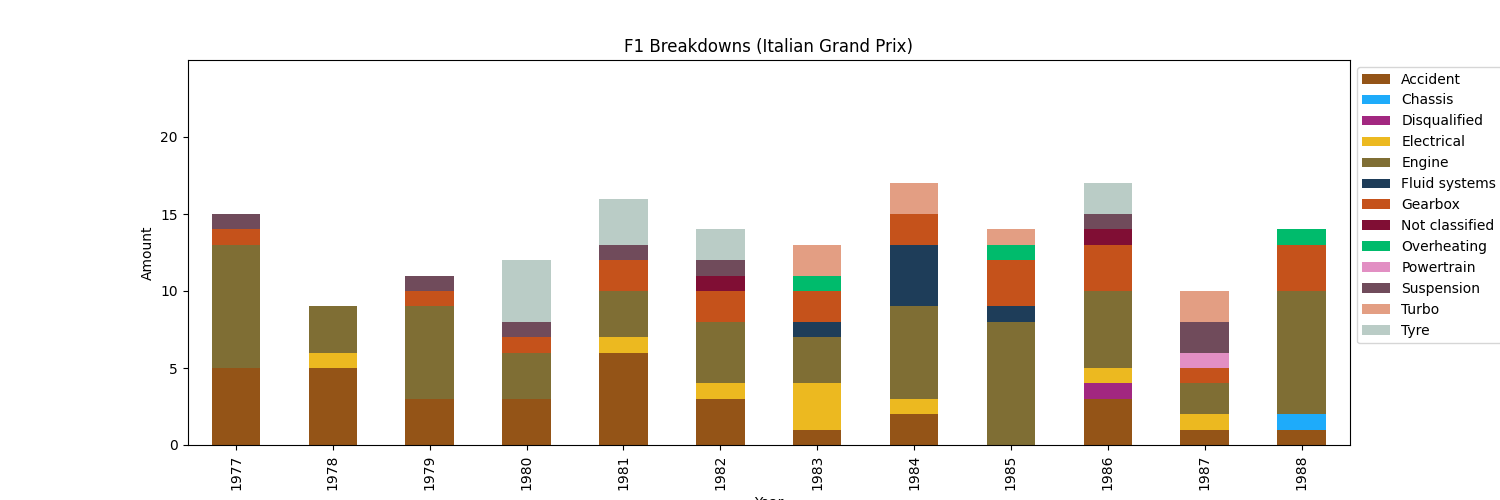
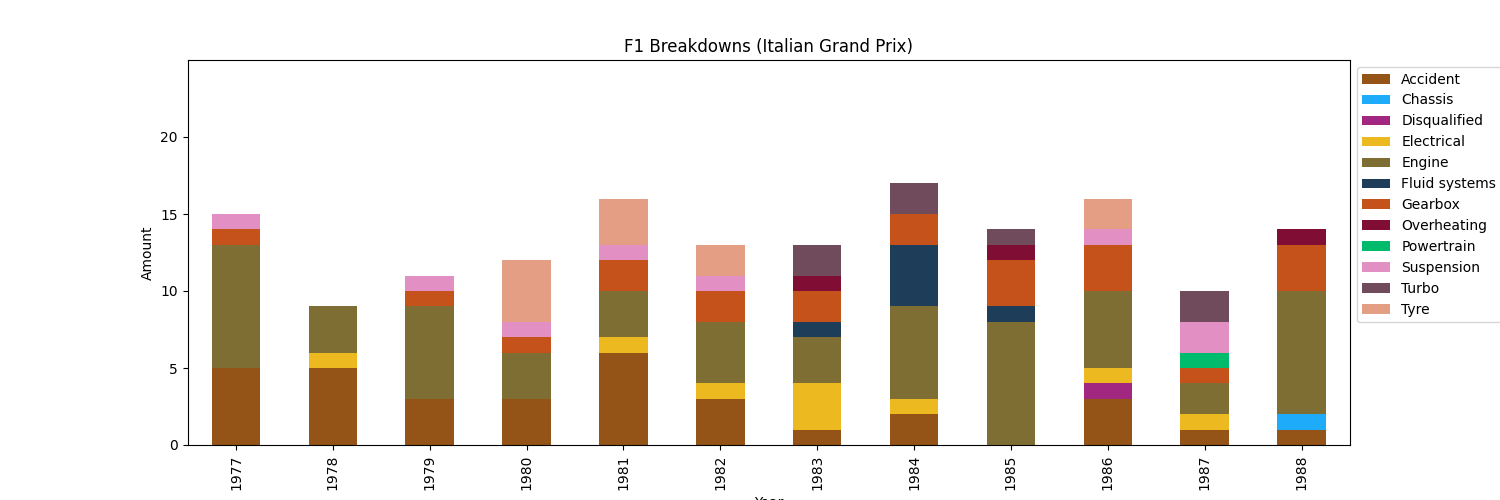
analysis fix

diff --git a/main.py b/main.py
@@ -42,6 +42,7 @@ if 'p' in args:
         if file.endswith('.csv'):
             df_data = pd.read_csv(os.path.join(path,file))
             df_data = df_data[df_data['status'] != 'Finished']
+            df_data = df_data[df_data['status'] != 'Not classified']
             
             # group data by date and status
             df_data_ds = df_data.groupby(['year', 'status']).size().reset_index(name='counts')
@@ -100,6 +101,8 @@ if 'a' in args:
     # drop the finished status rows
     df_turbo = df_turbo[df_turbo['status'] != 'Finished']
     df_hybrid = df_hybrid[df_hybrid['status'] != 'Finished']
+    df_turbo = df_turbo[df_turbo['status'] != 'Not classified']
+    df_hybrid = df_hybrid[df_hybrid['status'] != 'Not classified']
     
     # transform data to have the groups as rows and the years as columns
     df_turbo_sy = df_turbo.groupby(['year', 'status']).size().reset_index(name='counts')
@@ -150,7 +153,7 @@ if 'a' in args:
     plt.clf()
     
     #replace the each year in the year column with a number
-    df_turbo['year'] = df_turbo['year'].replace({1980: 1, 1981: 2, 1982: 3, 1983: 4, 1984: 5, 1985: 6, 1986: 7, 1987: 8, 1988: 9, 1989: 10})
+    df_turbo['year'] = df_turbo['year'].replace({1977: 1, 1978: 2, 1979: 3, 1980: 4, 1981: 5, 1982: 6, 1983: 7, 1984: 8, 1985: 9, 1986: 10, 1987: 11, 1988: 12})
     df_hybrid['year'] = df_hybrid['year'].replace({2014: 1, 2015: 2, 2016: 3, 2017: 4, 2018: 5, 2019: 6, 2020: 7, 2021: 8, 2022: 9, 2023: 10})
     
     df_turbo_newys = df_turbo.groupby(['year', 'status']).size().reset_index(name='counts')
@@ -170,8 +173,8 @@ if 'a' in args:
     # plot the correlation between the two eras as a line chart with data points
     plt.title('Correlation between Turbo and Hybrid era')
     plt.ylabel('Correlation')
-    plt.xlabel('Years')
-    plt.xticks(np.arange(1, 11, 1))
+    plt.xlabel('Compared Years')
+    plt.xticks(np.arange(1, 11, 1), [str(x) + '-' + str(x + 37) for x in range(1977, 1987)])
     plt.yticks(np.arange(-1.1, 1.1, 0.1))
     plt.ylim(-1, 1)
     plt.plot(df_turbo_newys.corrwith(df_hybrid_newys), marker='o')
@@ -201,8 +204,8 @@ if 'a' in args:
     for circuit in df_turbo_circuit.index.get_level_values(0).unique():
         plt.title('Correlation between Turbo and Hybrid era (' + str(circuit) + ')')
         plt.ylabel('Correlation')
-        plt.xlabel('Years')
-        plt.xticks(np.arange(1, 11, 1))
+        plt.xlabel('Compared Years')
+        plt.xticks(np.arange(1, 11, 1), [str(x) + '-' + str(x + 37) for x in range(1977, 1987)])
         plt.yticks(np.arange(-1.1, 1.1, 0.1))
         plt.ylim(-1, 1)
         plt.plot(df_turbo_circuit.loc[circuit].corrwith(df_hybrid_circuit.loc[circuit]), marker='o')

diff --git a/f1data.py b/f1data.py
@@ -32,7 +32,7 @@ def getdata(startdate, enddate):
         if dfresult[(dfresult['year'] == 2023) & (dfresult['circuit'] == 'Singapore Grand Prix')].empty == False:
             dfresult.loc[(dfresult['year'] == 2023) & (dfresult['circuit'] == 'Singapore Grand Prix') & (dfresult['status'] == 'Technical'), 'status'] = 'Overheating'
 
-    dfresult = dfresult[~dfresult['status'].isin(['Did not qualify', 'Did not prequalify', 'Retired', 'Withdrew', 'Excluded', 'Mechanical'])]
+    dfresult = dfresult[~dfresult['status'].isin(['Did not qualify', 'Did not prequalify', 'Retired', 'Withdrew', 'Excluded', 'Mechanical', 'Not Classified'])]
 
     digroup_values = {
         'Engine': {'Injection', 'Throttle', 'Power Unit', 'Power loss'},
@@ -42,7 +42,7 @@ def getdata(startdate, enddate):
         'Electrical': {'Spark plugs', 'Battery', 'Alternator', 'Distributor', 'Ignition', 'Electronics', 'ERS'},
         'Tyre': {'Puncture', 'Wheel', 'Wheel bearing', 'Brakes', 'Wheel nut', 'Technical', 'Brake duct'},
         'Fluid systems': {'Out of fuel', 'Fuel pump', 'Fuel leak', 'Fuel system', 'Oil leak', 'Oil pump', 'Oil pressure',
-                        'Water leak', 'Water pump', 'Hydraulics', 'Water pressure', 'Fuel pressure'},
+                        'Water leak', 'Water pump', 'Hydraulics', 'Water pressure', 'Fuel pressure', 'Fuel pipe'},
         'Chassis': {'Broken wing', 'Rear wing', 'Front wing', 'Debris', 'Undertray'},
         'Driver-related': {'Driver unwell', 'Injured', 'Injury', 'Physical', 'Fatal accident', 'Illness', 'Seat'},
         'Overheating': {'Heat shield fire', 'Radiator', 'Mechanical', 'Exhaust', 'Cooling system', 'Fire'},
